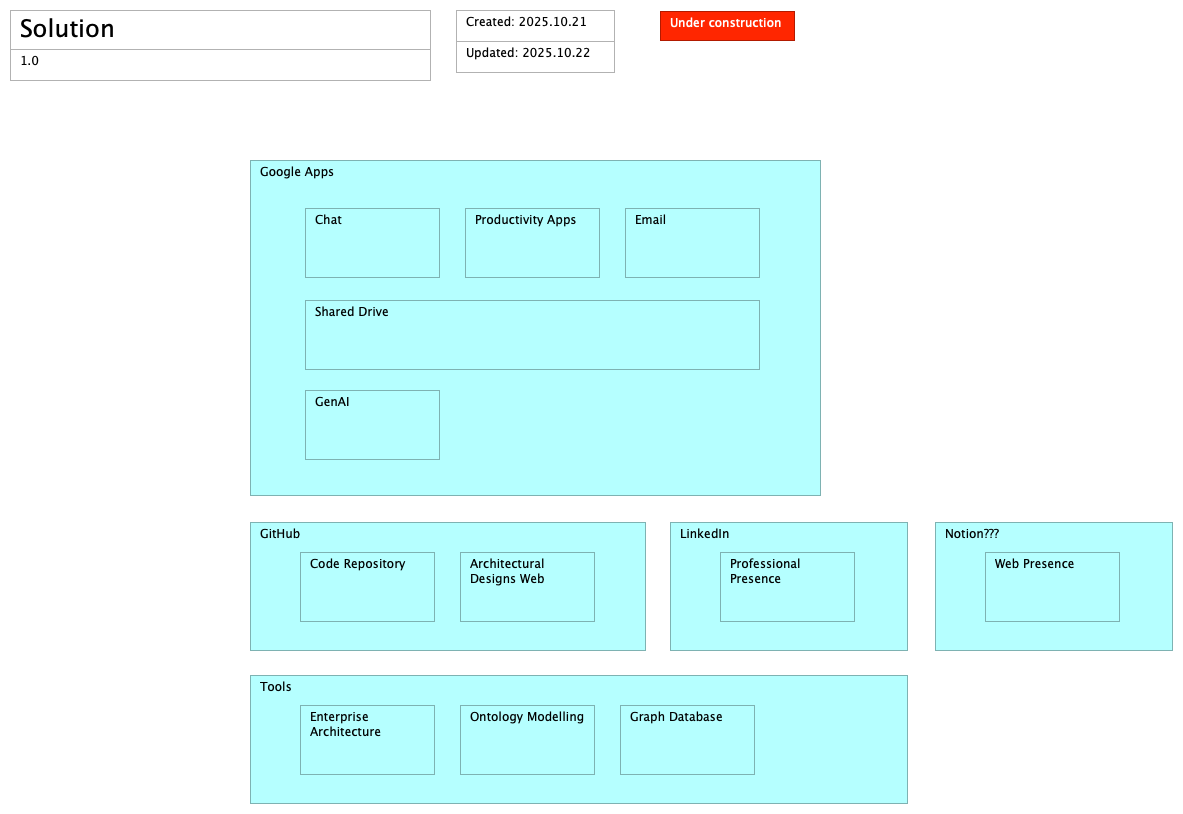
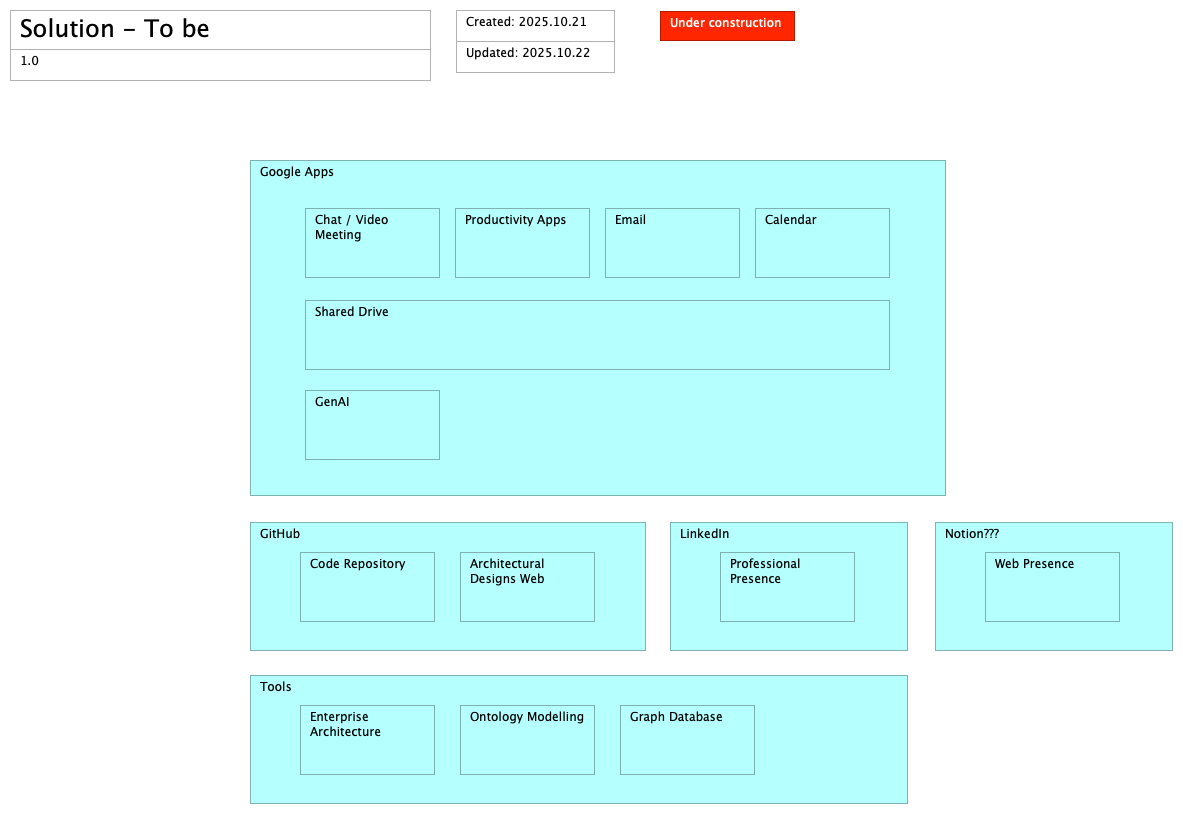
20251022-2122

diff --git a/ea/id-ebff115227d24487b92deb97fea09199/views/id-7d8c0b80bebd4c618c80c70b76cb3c56.html b/ea/id-ebff115227d24487b92deb97fea09199/views/id-7d8c0b80bebd4c618c80c70b76cb3c56.html
@@ -52,13 +52,14 @@
 				  		        <area shape="rect" coords="720,552,855,622" href="../objects/id-dfa6f0bd8f7c4f148bf31c9f26870341.html" target="element" >
 
 				          <area shape="rect" coords="670,522,908,651" href="../objects/id-44a6700c08db40c683df8bbe46f6d0d0.html" target="element" >
+				  		        <area shape="rect" coords="755,208,890,278" href="../objects/id-17d780e1a72a49ae941f8d56630ff4ac.html" target="element" >
 				  		        <area shape="rect" coords="305,390,440,460" href="../objects/id-dc2e5bcbf6104dfe8fde4fbf861800c4.html" target="element" >
-				  		        <area shape="rect" coords="305,300,760,370" href="../objects/id-085b67b4e41d485aa7e2847bce83474d.html" target="element" >
+				  		        <area shape="rect" coords="305,300,890,370" href="../objects/id-085b67b4e41d485aa7e2847bce83474d.html" target="element" >
 				  		        <area shape="rect" coords="305,208,440,278" href="../objects/id-47870837b03447359033ca96e2c77b3e.html" target="element" >
-				  		        <area shape="rect" coords="625,208,760,278" href="../objects/id-7a094c49f7074cb1b6eb439e01293a9d.html" target="element" >
-				  		        <area shape="rect" coords="465,208,600,278" href="../objects/id-6ae2ac5cad464891a265aa9be4b31f1c.html" target="element" >
+				  		        <area shape="rect" coords="605,208,740,278" href="../objects/id-7a094c49f7074cb1b6eb439e01293a9d.html" target="element" >
+				  		        <area shape="rect" coords="455,208,590,278" href="../objects/id-6ae2ac5cad464891a265aa9be4b31f1c.html" target="element" >
 
-				          <area shape="rect" coords="250,160,821,496" href="../objects/id-7d8dadd1b7d041d6ac261a4acbc74794.html" target="element" >
+				          <area shape="rect" coords="250,160,946,496" href="../objects/id-7d8dadd1b7d041d6ac261a4acbc74794.html" target="element" >
 
 			   </map>
 
@@ -158,6 +159,11 @@
 											        <tr>
 											           <td> <a href="../objects/id-dc2e5bcbf6104dfe8fde4fbf861800c4.html" target="element"> Sticky </a> </td>
 											           <td> <a href="../objects/id-dc2e5bcbf6104dfe8fde4fbf861800c4.html" target="element" class="i18n-elementtype-SketchModelSticky"> </a> </td>
+											        </tr>
+
+											        <tr>
+											           <td> <a href="../objects/id-17d780e1a72a49ae941f8d56630ff4ac.html" target="element"> Sticky </a> </td>
+											           <td> <a href="../objects/id-17d780e1a72a49ae941f8d56630ff4ac.html" target="element" class="i18n-elementtype-SketchModelSticky"> </a> </td>
 											        </tr>
 
 											
@@ -261,6 +267,7 @@
 								</thead>
 								<tbody>
 											<!-- DEBUG: Skipping element from class com.archimatetool.model.impl.SketchModelSticky -->
+													<!-- DEBUG: Skipping element from class com.archimatetool.model.impl.SketchModelSticky -->
 													<!-- DEBUG: Skipping element from class com.archimatetool.model.impl.SketchModelSticky -->
 													<!-- DEBUG: Skipping element from class com.archimatetool.model.impl.SketchModelSticky -->
 													<!-- DEBUG: Skipping element from class com.archimatetool.model.impl.SketchModelSticky -->

diff --git a/ea/id-ebff115227d24487b92deb97fea09199/objects/id-7d8dadd1b7d041d6ac261a4acbc74794.html b/ea/id-ebff115227d24487b92deb97fea09199/objects/id-7d8dadd1b7d041d6ac261a4acbc74794.html
@@ -124,6 +124,11 @@
 									           <td> <a href="../objects/id-dc2e5bcbf6104dfe8fde4fbf861800c4.html" target="element" class="i18n-elementtype-SketchModelSticky"> </a> </td>
 									        </tr>
 
+									        <tr>
+									           <td> <a href="../objects/id-17d780e1a72a49ae941f8d56630ff4ac.html" target="element"> Sticky </a> </td>
+									           <td> <a href="../objects/id-17d780e1a72a49ae941f8d56630ff4ac.html" target="element" class="i18n-elementtype-SketchModelSticky"> </a> </td>
+									        </tr>
+
 
 								</tbody>
 							</table>
@@ -139,6 +144,7 @@
 									</tr>
 								</thead>
 								<tbody>
+											<!-- DEBUG: Skipping element from class com.archimatetool.model.impl.SketchModelSticky -->
 											<!-- DEBUG: Skipping element from class com.archimatetool.model.impl.SketchModelSticky -->
 											<!-- DEBUG: Skipping element from class com.archimatetool.model.impl.SketchModelSticky -->
 											<!-- DEBUG: Skipping element from class com.archimatetool.model.impl.SketchModelSticky -->

diff --git a/ea/id-ebff115227d24487b92deb97fea09199/objects/id-17d780e1a72a49ae941f8d56630ff4ac.html b/ea/id-ebff115227d24487b92deb97fea09199/objects/id-17d780e1a72a49ae941f8d56630ff4ac.html
@@ -47,7 +47,7 @@
 				<!-- Tab panes -->
 				<div class="tab-content">
 					<div role="tabpanel" class="tab-pane active" id="documentation">
-						<div class="convertlinks documentation" style="white-space:pre-wrap">Chat / Video Meeting</div>
+						<div class="convertlinks documentation" style="white-space:pre-wrap">Calendar</div>
 					</div>
 					<div role="tabpanel" class="tab-pane" id="properties">
 						<table class="table table-striped table-hover table-condensed">

diff --git a/ea/id-ebff115227d24487b92deb97fea09199/objects/id-8a721284ba754ecb85c849278d01e64b.html b/ea/id-ebff115227d24487b92deb97fea09199/objects/id-8a721284ba754ecb85c849278d01e64b.html
@@ -47,7 +47,7 @@
 				<!-- Tab panes -->
 				<div class="tab-content">
 					<div role="tabpanel" class="tab-pane active" id="documentation">
-						<div class="convertlinks documentation" style="white-space:pre-wrap">Solution</div>
+						<div class="convertlinks documentation" style="white-space:pre-wrap">Solution - To be</div>
 					</div>
 					<div role="tabpanel" class="tab-pane" id="properties">
 						<table class="table table-striped table-hover table-condensed">
